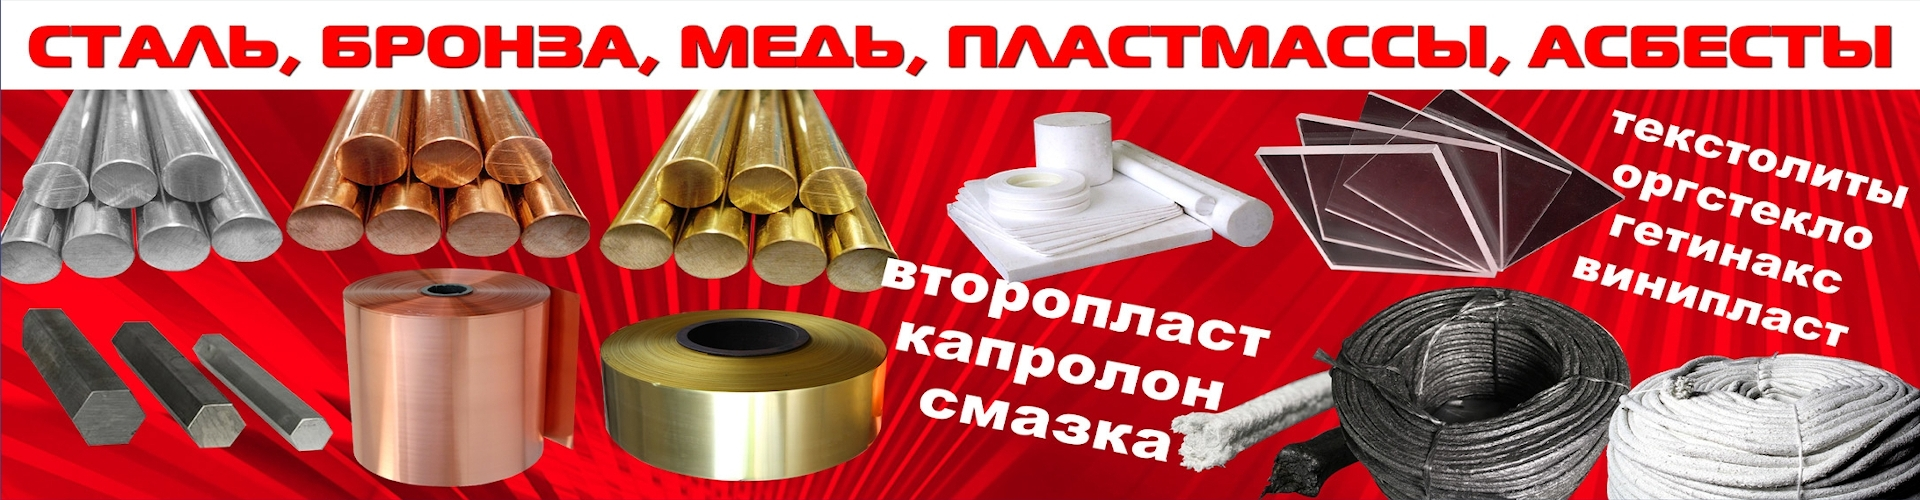
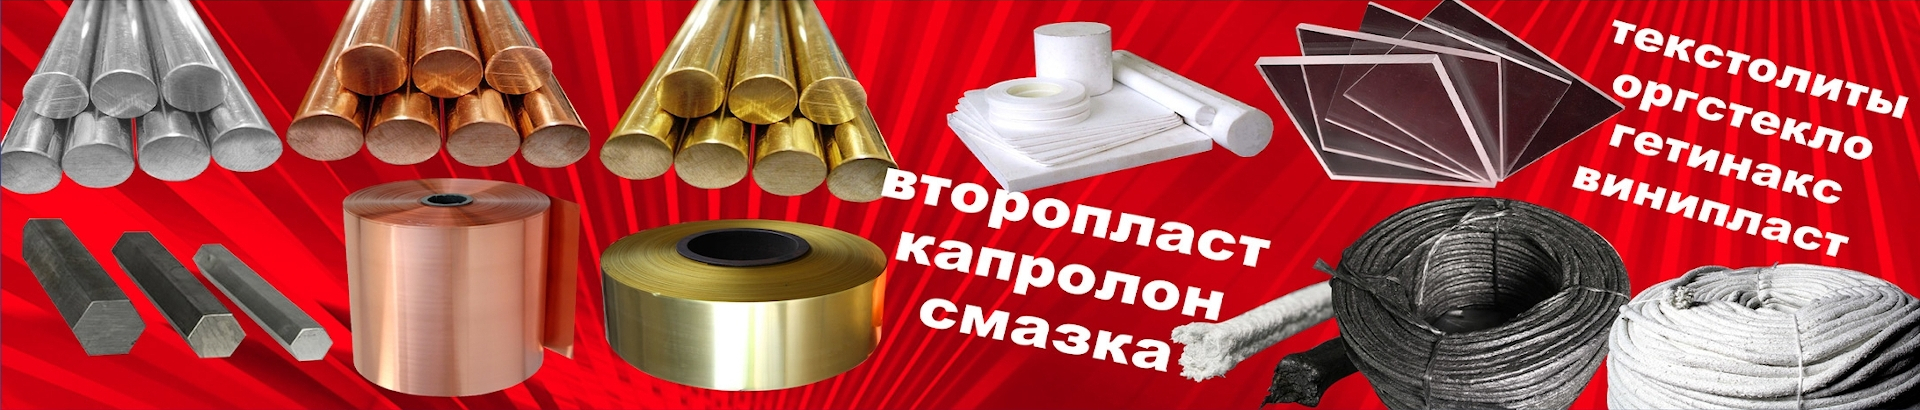
updated

diff --git a/index.html b/index.html
@@ -389,7 +389,7 @@
           <div class="square-container">
             <!--<div class="align-center"><img src="" class="boxshadow"
                                            alt=""></div>-->
-            <h2 class="textshadow">Абразивы</h2>
+            <h2 class="textshadow">Абразивы.</h2>
             <!--            <h3 class="textshadow">The #1 Selling Most Enjoyable and Creative Multipurpose WordPress theme.</h3>-->
           </div>
           <div class="flip-overlay"></div>
@@ -481,7 +481,7 @@
           <div class="square-container">
             <!--<div class="align-center"><img src="" class="boxshadow"
                                            alt=""></div>-->
-            <h2 class="textshadow">Метизы, крепеж, проволока Оборот.</h2>
+            <h2 class="textshadow">Метизы, крепеж, проволока.</h2>
             <!--            <h3 class="textshadow">The #1 Selling Most Enjoyable and Creative Multipurpose WordPress theme.</h3>-->
           </div>
           <div class="flip-overlay"></div>
@@ -511,7 +511,7 @@
           <div class="square-container">
             <!--<div class="align-center"><img src="" class="boxshadow"
                                            alt=""></div>-->
-            <h2 class="textshadow">Сварочные материалы оборот.</h2>
+            <h2 class="textshadow">Сварочные материалы.</h2>
             <!--            <h3 class="textshadow">The #1 Selling Most Enjoyable and Creative Multipurpose WordPress theme.</h3>-->
           </div>
           <div class="flip-overlay"></div>

diff --git a/assets/js/script.js b/assets/js/script.js
@@ -55,7 +55,7 @@ $(document).ready(function () {
 
       delay: 9000,
       startwidth: 1140,
-      startheight: 500,
+      startheight: 400,
       hideThumbs: 200,
 
       thumbWidth: 100,
